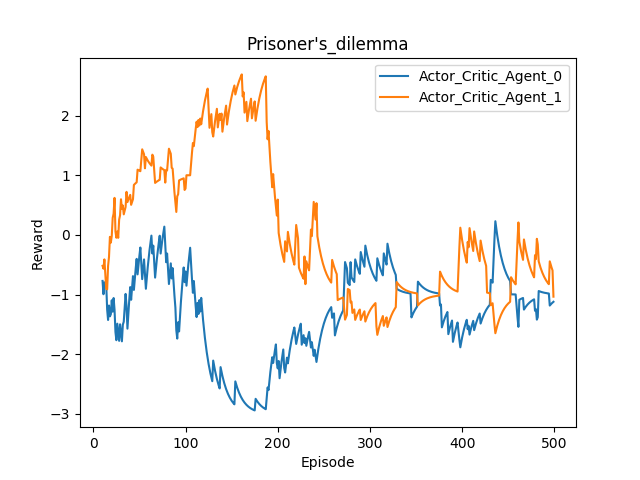
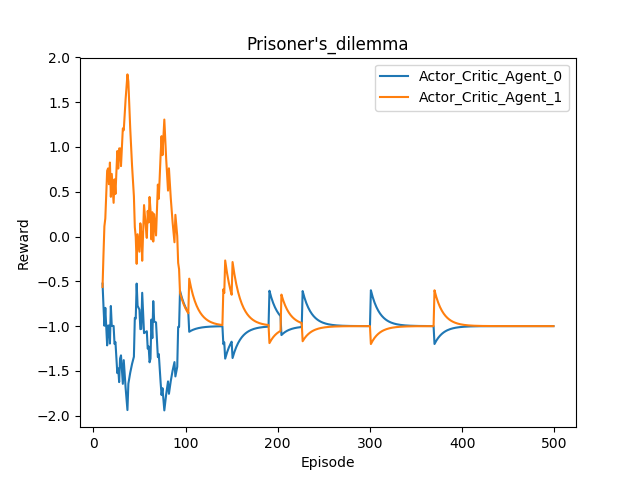
Implemented rudimentary policing agent (without learning so far)

diff --git a/main.py b/main.py
@@ -1,7 +1,7 @@
 import matplotlib.pyplot as plt
+import numpy as np
 from Environments import Prisoners_Dilemma
-from Agents import Actor_Critic_Agent, Critic_Variant, Reputation_Bot
-
+from Agents import Actor_Critic_Agent, Critic_Variant, Policing_Agent
 HISTORY_LENGTH = 5 # the NN will use the actions from this many past rounds to determine its action
 N_EPISODES = 500
 N_PLAYERS = 4
@@ -9,11 +9,13 @@ N_UNITS = 64 #number of nodes in the intermediate layer of the NN
 
 def run_game(N_EPISODES, players, policing_agent = None):
     env.reset_ep_ctr()
+    avg_policing_rewards_per_round = []
     for episode in range(N_EPISODES):
         # initial observation
         s = env.reset()
         flag = isinstance(s, list)
 
+        cum_policing_rs = [0]*len(players)
         while True:
             # choose action based on s
             if flag:
@@ -26,8 +28,11 @@ def run_game(N_EPISODES, players, policing_agent = None):
             s_, rewards, done = env.step(actions)
 
             if policing_agent is not None:
-                extra_rewards = policing_agent.choose_action(s,actions)
-                rewards = [ sum(r) for r in zip(rewards,extra_rewards)]
+                assert(len(players) == 2) #temporary
+                policing_action = policing_agent.choose_action(s,actions)
+                policing_rs = [4 * (policing_action-1), -4 * (policing_action-1)]
+                rewards = [ sum(r) for r in zip(rewards,policing_rs)]
+                cum_policing_rs = [sum(r) for r in zip(cum_policing_rs, policing_rs)]
             # print('Actions:',actions)
             # print('State after:',s_)
             # print('Rewards:',rewards)
@@ -48,10 +53,13 @@ def run_game(N_EPISODES, players, policing_agent = None):
                     player.learn_at_episode_end() 
                 break
 
+        print(cum_policing_rs)
+        avg_policing_rewards_per_round.append([r / env.step_ctr for r in cum_policing_rs])
+
         # status updates
         if (episode+1) % 10 == 0:
             print('Episode {} finished.'.format(episode + 1))
-    return env.get_avg_rewards_per_round()
+    return env.get_avg_rewards_per_round(), np.asarray(avg_policing_rewards_per_round)
 
 def plot_results(avg_rewards_per_round, legend, label, exp_factor = 1):
     plt.figure()
@@ -70,14 +78,13 @@ def plot_results(avg_rewards_per_round, legend, label, exp_factor = 1):
     plt.savefig('./'+label)
     #plt.show()
 
-def create_population(env,n_actor_critic_agents,n_reputation_bots = 0):    
+def create_population(env,n_actor_critic_agents):    
     critic_variant = Critic_Variant.CENTRALIZED
     l = [Actor_Critic_Agent(env, 
                   learning_rate=0.01,
                   gamma=0.9,
                   agent_idx = i,
                   critic_variant = critic_variant) for i in range(n_actor_critic_agents)]
-    l.extend([Reputation_Bot(env,i+n_actor_critic_agents) for i in range(n_reputation_bots)])
     #Pass list of agents for centralized critic
     if critic_variant is Critic_Variant.CENTRALIZED:
         for agent in l:
@@ -87,16 +94,19 @@ def create_population(env,n_actor_critic_agents,n_reputation_bots = 0):
 if __name__ == "__main__":
     # Initialize env and agents
     #env = Public_Goods_Game(HISTORY_LENGTH,N_PLAYERS, multiplier = 3, punishment_cost = 0.2, punishment_strength = 2)    
-    env = Prisoners_Dilemma(signal_possible = True, option_to_abstain = True)    
-    agents = create_population(env,2)
+    # env = Prisoners_Dilemma(signal_possible = True, option_to_abstain = True)    
+    # agents = create_population(env,2)
     
-    avg_rewards_per_round = 2 * run_game(N_EPISODES,agents)
-    plot_results(avg_rewards_per_round,[str(agent) for agent in agents],env.__str__(), exp_factor=0.1)
-    for agent in agents:
-        agent.close()
+    # avg_rewards_per_round = 2 * run_game(N_EPISODES,agents)
+    # plot_results(avg_rewards_per_round,[str(agent) for agent in agents],env.__str__(), exp_factor=0.1)
+    # for agent in agents:
+    #     agent.close()
 
-    env = Prisoners_Dilemma(signal_possible = True, option_to_abstain = False)    
+    env = Prisoners_Dilemma()    
     agents = create_population(env,2)
+    policing_agent = Policing_Agent(env,agents)
+
     
-    avg_rewards_per_round = 2 * run_game(N_EPISODES,agents)
+    avg_rewards_per_round,avg_policing_rewards_per_round = run_game(N_EPISODES,agents,policing_agent)
     plot_results(avg_rewards_per_round,[str(agent) for agent in agents],env.__str__(), exp_factor=0.1)
+    plot_results(avg_policing_rewards_per_round,[str(agent) for agent in agents],env.__str__()+'_policing_rewards', exp_factor=0.1)

diff --git a/Agents.py b/Agents.py
@@ -106,8 +106,6 @@ class Actor(object):
     def calc_action_probs(self, sess, s):
         s = s[np.newaxis, :]
         probs = sess.run(self.actions_prob, {self.s: s})   # get probabilities for all actions
-        if np.isnan(probs).any():
-            print(probs)
         return probs
 
 class Critic(object):
@@ -176,25 +174,64 @@ class Critic(object):
                                           {self.nn_inputs: nn_inputs, self.v_: v_, self.r: r})
         return td_error
 
-class Reputation_Bot(Agent):
-    def __init__(self, env, agent_idx):
-        super().__init__(env, agent_idx=agent_idx)
+class Policing_Agent(Agent):
+    def __init__(self, env, agent_list, learning_rate=0.01, n_units = 20, gamma = 0.95):
+        super().__init__(env, learning_rate, gamma)
+        self.agent_list = agent_list
+        self.n_policing_actions = 3
+        self.n_features = env.n_features + env.n_players
 
-    def calc_action_probs(self,s):
-        opponent_idx = int(s[0])
-        assert (self.agent_idx != opponent_idx)
-        reputation_table = np.reshape(s[1:],(self.env.n_players,self.env.n_players))
-        opponent_reputation = reputation_table[opponent_idx,self.agent_idx]
-        p_coop = opponent_reputation
-        p_defect = 1 - p_coop
-        probs = np.array([p_defect,p_coop])[np.newaxis,:]
-        # if opponent_idx == self.agent_idx:
-        #     print(opponent_idx)
-        #     print(s)
-        return probs
+        self.inputs = tf.placeholder(tf.float32, [1, self.n_features], "inputs") #inputs are state and actions
+        self.a = tf.placeholder(tf.float32, None, "act")
+        #self.td_error = tf.placeholder(tf.float32, None, "td_error")  # TD_error
 
-    def learn(self, s, a, r, s_, *args):
+        with tf.variable_scope('Policy_Network'):
+            l1 = tf.layers.dense(
+                inputs=self.inputs,
+                units=n_units,    # number of hidden units
+                activation=tf.nn.relu,
+                kernel_initializer=tf.random_normal_initializer(0., .1),    # weights
+                bias_initializer=tf.constant_initializer(0),  # biases
+                name='l1_policing'
+            )
+
+            self.actions_prob = tf.layers.dense(
+                inputs=l1,
+                units=self.n_policing_actions,    # output units
+                activation=tf.nn.softmax,
+                kernel_initializer=tf.random_normal_initializer(0., .1),  # weights
+                bias_initializer=tf.constant_initializer(0),  # biases
+                name='actions_policing'
+            )
+
+        # Another network for V1p, V2p. 
+
+        # Gradients of that w.r.t. theta_1, theta_2. Perhaps via log_prob? Use that in train_op
+
+        # Gradients of V w.r.t. theta_1, theta_2: Get from critics
+
+        # with tf.variable_scope('Error'):
+        #     log_prob = tf.log(self.actions_prob[0, self.a])
+        #     self.exp_v = tf.reduce_mean(log_prob * self.td_error)  
+
+        # with tf.variable_scope('trainPolicingAgent'):
+        #     self.train_op = tf.train.AdamOptimizer(learning_rate).minimize(-self.exp_v)  
+
+        self.sess.run(tf.global_variables_initializer())
+
+    def learn(self, s, a1, a2, r1, r1p, r2, r2p):
+        #assume episode length 1 for the time being
+        #call train op with right loss
+        #Train V1p, V2p
         pass
 
-    def __str__(self):
-        return 'ReputationBot_'+str(self.agent_idx)
+    def choose_action(self, s, actions):
+        action_probs = self.calc_action_probs(s, actions)
+        action = np.random.choice(range(action_probs.shape[1]), p=action_probs.ravel())  # select action w.r.t the actions prob
+        return action
+
+    def calc_action_probs(self, s, actions):
+        inputs = np.hstack((s,np.array(actions)))
+        inputs = inputs[np.newaxis,:]
+        probs = self.sess.run(self.actions_prob, {self.inputs: inputs})   # get probabilities for all actions
+        return probs
